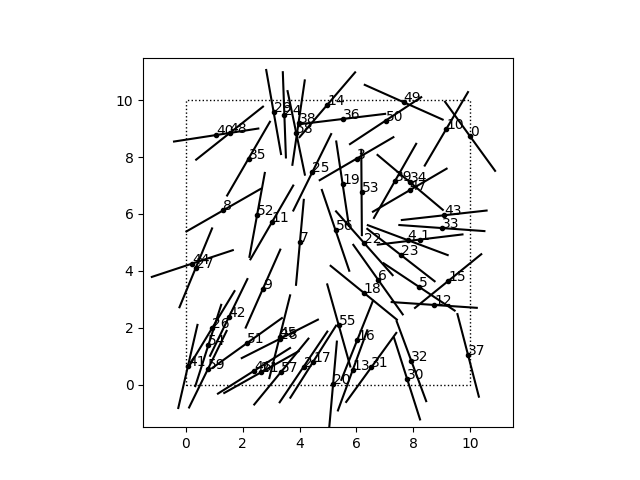
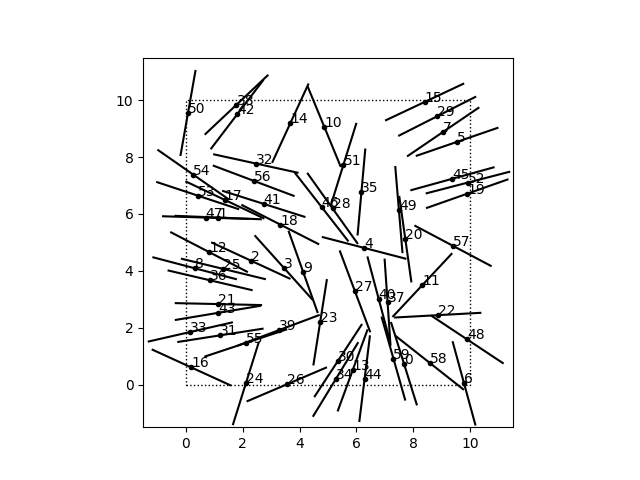
[mod] アニーリングのサンプルを変更

Changed region(s): [[0.2188, 0.1562, 0.8125, 0.875], [0.5312, 0.1562, 0.5938, 0.1875]]

diff --git a/src/anealing.py b/src/anealing.py
@@ -26,7 +26,7 @@ def anealing(H, W, L, N) -> list[Spine]:
     アニーリングによってエネルギー０を目指すアプローチで針の位置・向きを求める。
     """
     # 最大反復回数を制御するグローバルパラメータ
-    max_iteration = 300
+    max_iteration = 3000
 
     # ランダムな生成
     spines = random_spines(H, W, L, N)
